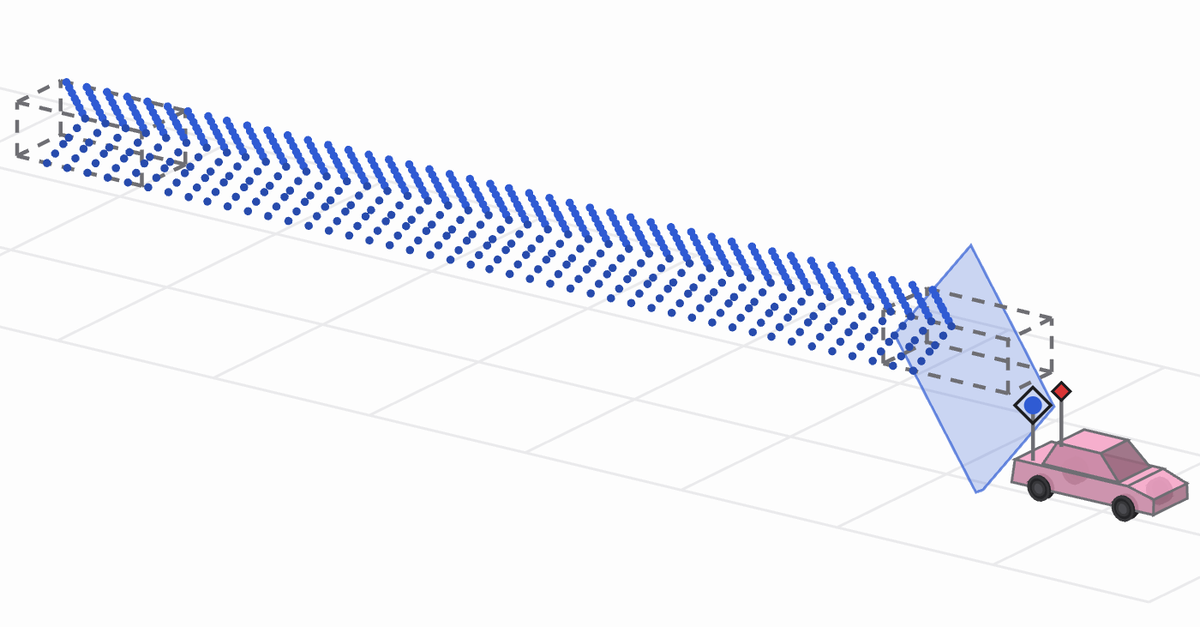
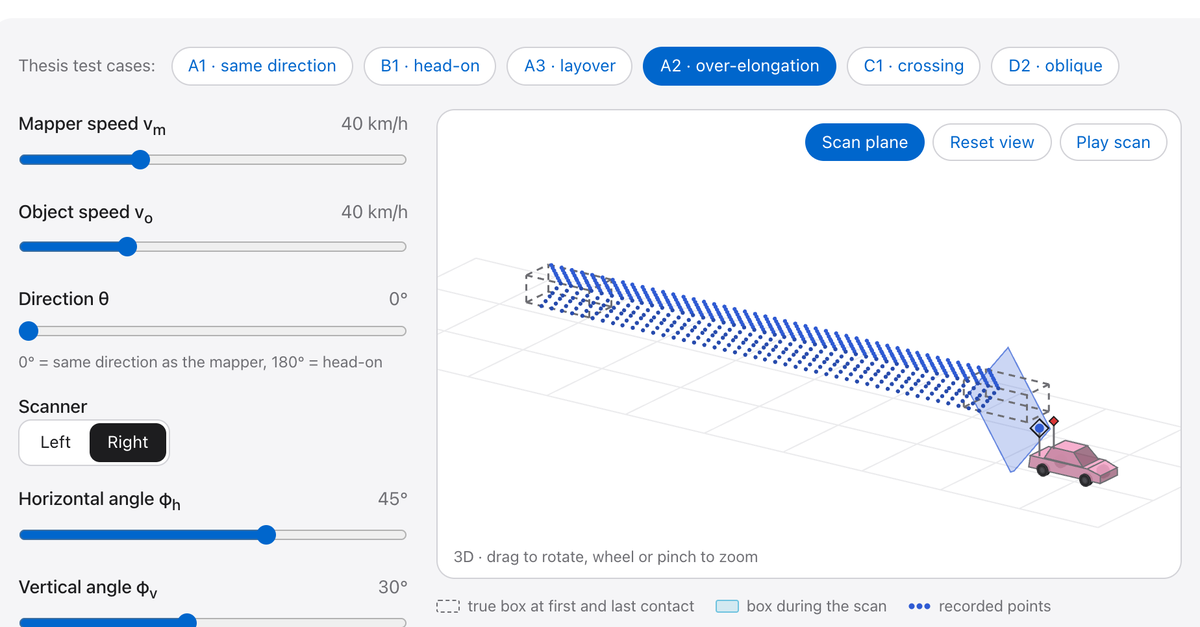
Show the simulator controls in the social-preview card

diff --git a/index.html b/index.html
@@ -10,18 +10,18 @@
     <meta name="author" content="Aman Kumar Singh">
     <meta property="og:site_name" content="Aman Kumar Singh">
     <meta property="og:type" content="article">
-    <meta property="og:title" content="Modeling Point Cloud Distortions in Mobile Laser Scanning">
-    <meta property="og:description" content="Closed-form equations for length, layover and parallelepiped distortions of moving objects in MLS point clouds, with an interactive 2D and 3D simulator.">
+    <meta property="og:title" content="Moving objects in mobile LiDAR point clouds: an interactive simulator">
+    <meta property="og:description" content="Set the speed and direction of the mapper and a moving object, press Play scan, and watch the point cloud distort in 2D or 3D. From our paper in the ASCE Journal of Surveying Engineering.">
     <meta property="og:url" content="https://amanks-20.github.io/mls-distortions/">
     <meta property="og:image" content="https://amanks-20.github.io/mls-distortions/static/images/og-card.png">
     <meta property="og:image:width" content="1200">
     <meta property="og:image:height" content="627">
-    <meta property="og:image:alt" content="3D view from the interactive simulator: a box moving alongside a car-mounted laser scanner at the same speed is recorded as a long streak of blue points, between dashed outlines of the box at first and last contact, with the tilted scan plane at the mapper.">
+    <meta property="og:image:alt" content="The simulator’s controls (thesis test case buttons, speed, direction and scanner sliders, Play scan) beside a 3D view in which a box moving at the mapper’s speed is recorded as a long streak of blue points between dashed outlines of the box.">
     <meta name="twitter:card" content="summary_large_image">
-    <meta name="twitter:title" content="Modeling Point Cloud Distortions in Mobile Laser Scanning">
-    <meta name="twitter:description" content="Closed-form equations for length, layover and parallelepiped distortions of moving objects in MLS point clouds, with an interactive 2D and 3D simulator.">
+    <meta name="twitter:title" content="Moving objects in mobile LiDAR point clouds: an interactive simulator">
+    <meta name="twitter:description" content="Set the speed and direction of the mapper and a moving object, press Play scan, and watch the point cloud distort in 2D or 3D. From our paper in the ASCE Journal of Surveying Engineering.">
     <meta name="twitter:image" content="https://amanks-20.github.io/mls-distortions/static/images/og-card.png">
-    <meta name="twitter:image:alt" content="3D view from the interactive simulator: a box moving alongside a car-mounted laser scanner at the same speed is recorded as a long streak of blue points, between dashed outlines of the box at first and last contact, with the tilted scan plane at the mapper.">
+    <meta name="twitter:image:alt" content="The simulator’s controls (thesis test case buttons, speed, direction and scanner sliders, Play scan) beside a 3D view in which a box moving at the mapper’s speed is recorded as a long streak of blue points between dashed outlines of the box.">
     <link rel="canonical" href="https://amanks-20.github.io/mls-distortions/">
 
     <!-- Google Scholar -->

diff --git a/CHANGELOG.md b/CHANGELOG.md
@@ -2,6 +2,7 @@
 
 ## Unreleased
 
+- Social-preview card now shows the simulator controls and a 3D result; card title names the simulator.
 - Field panel text shortened.
 - Field panel tag lines now say the speeds are estimated.
 - Field panel is hidden when the case has no field example.
